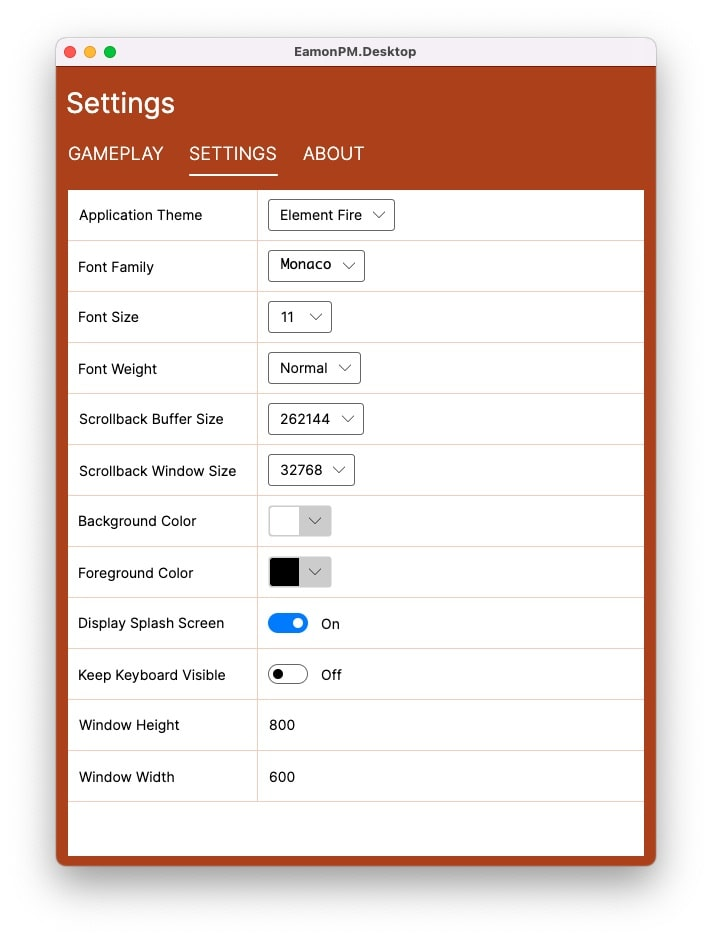
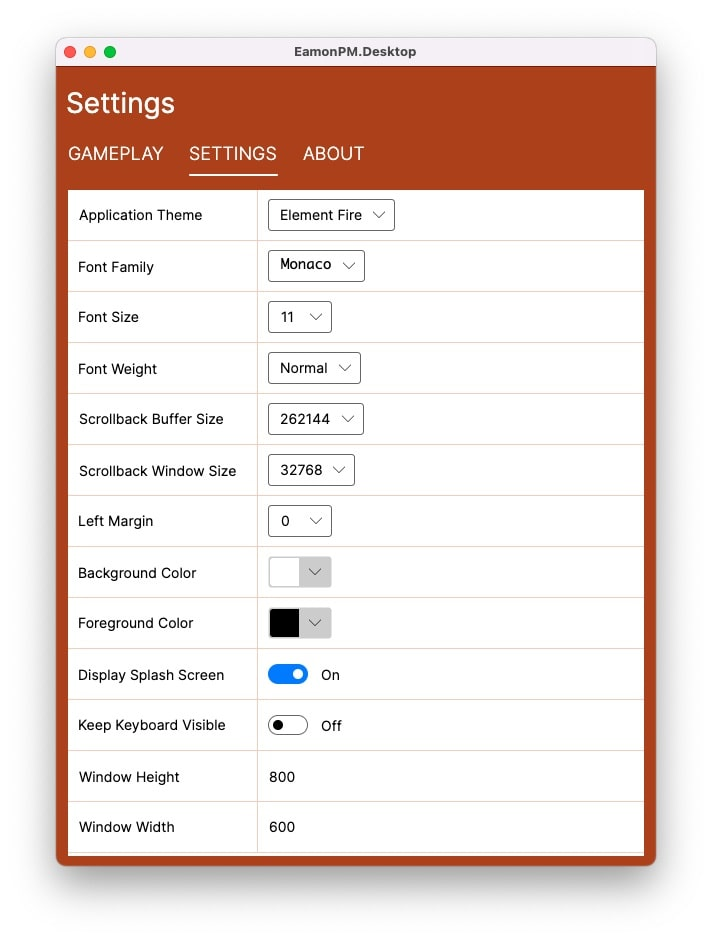
Enhancement: in EamonPM, added Left Margin option to Settings tab.

diff --git a/pages/TechnicalPaper/TechnicalPaper.html b/pages/TechnicalPaper/TechnicalPaper.html
@@ -430,6 +430,10 @@
                 <td>The total byte size of the scrollback window, which displays the most recent text from the scrollback buffer. Adjust this to balance console text output responsiveness (smaller window size) against ease of reviewing past output (larger window size).</td>
              </tr>
              <tr>
+                <td>Left Margin</td>
+                <td>The left margin used for text displayed by the console on the Gameplay tab.</td>
+             </tr>
+             <tr>
                 <td>Background Color</td>
                 <td>The background color used by the console on the Gameplay tab.</td>
              </tr>
